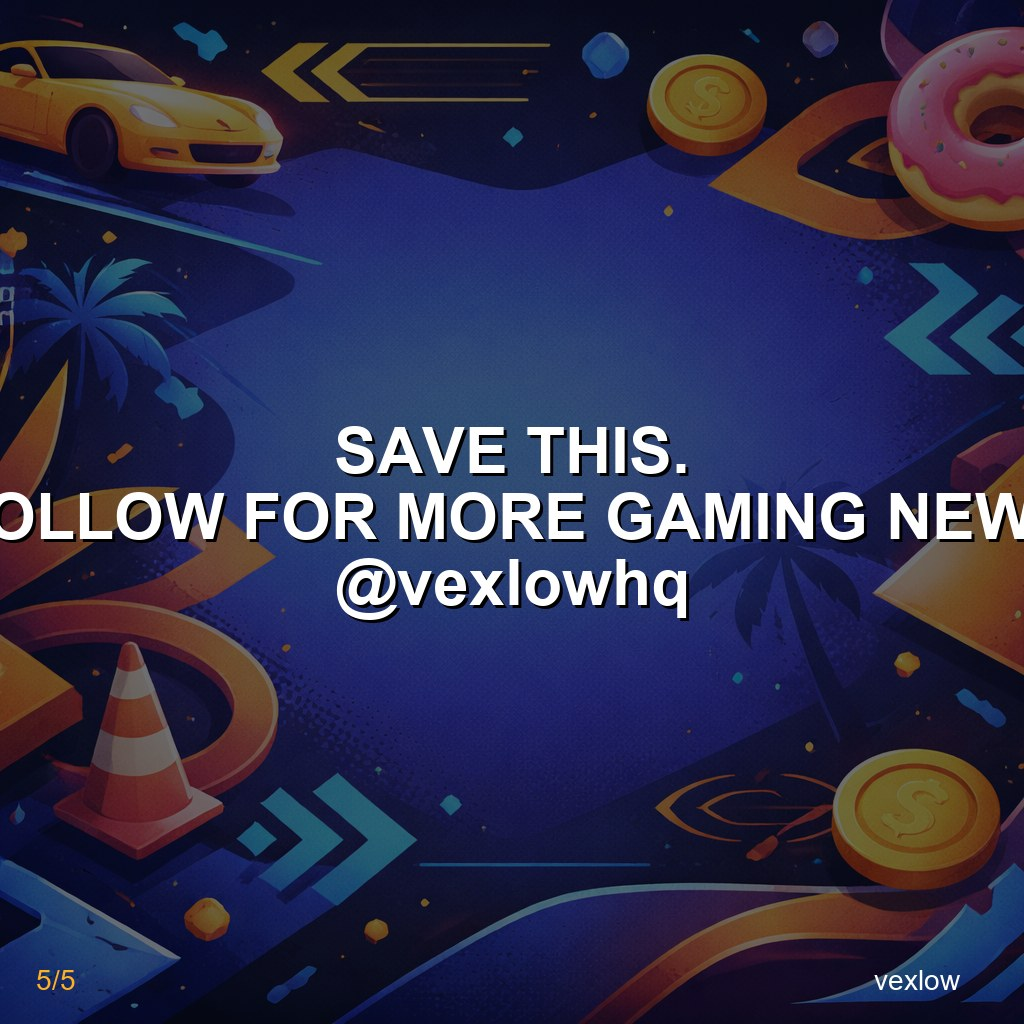
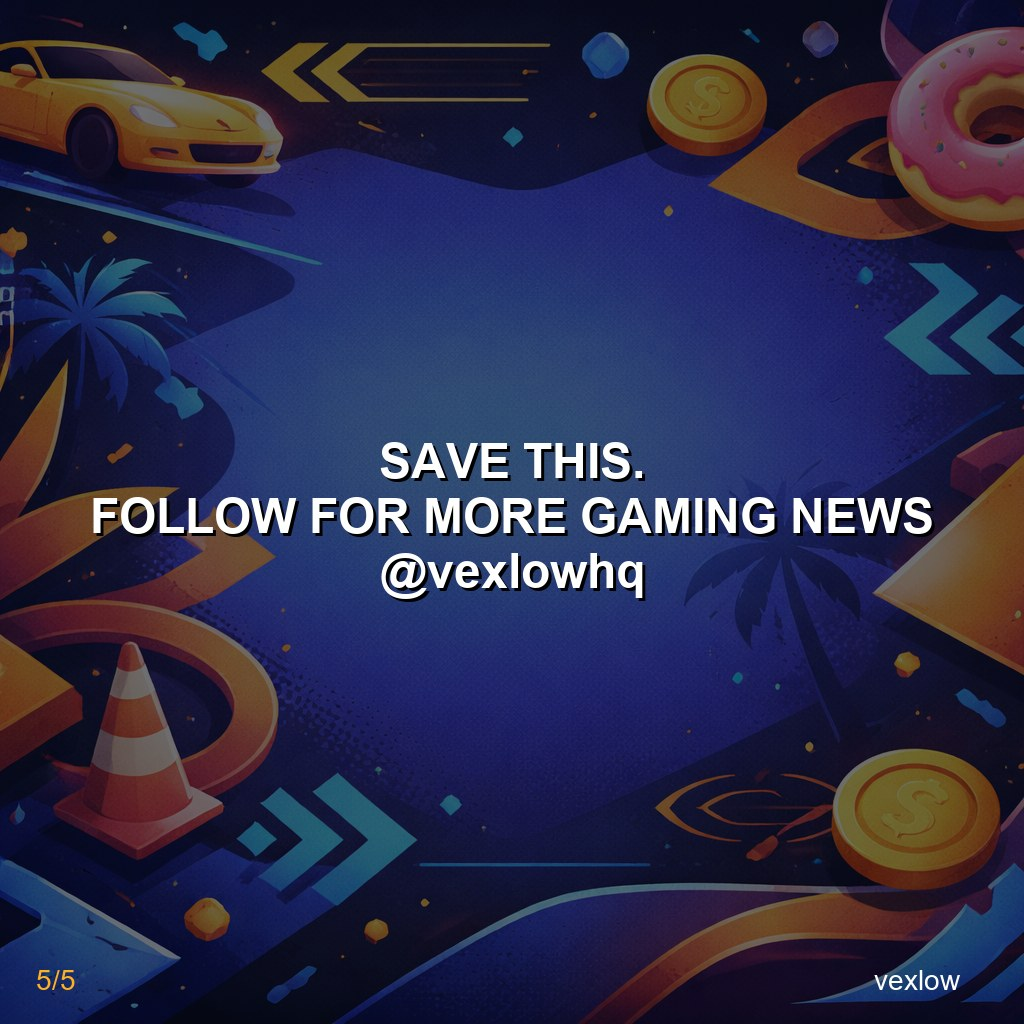
Fix carousel text overflowing image edges on long lines
The overlay script drew every slide's title at a fixed 64px, centering
each line by (canvas_width - line_width) / 2 with no check that the
line actually fit -- a line wider than the canvas centered around a
negative x and got sliced off both edges (confirmed on the live Day 1
and Day 3 posts already published to Instagram: "BECAME AN INSTANT
CULT CLASSIC" and "BREAKING THE XBOX EXCLUSIVE" both cut off).

Now each slide picks the largest font size (64px down to a 30px floor,
in 2px steps) at which every one of its lines fits within a fixed
margin, instead of a single canvas-wide size. Verified against the
real overlay script (not a rewritten copy) by feeding it the two
known-broken lines plus a short control line, then regenerated the
Day 1 and Day 3 slide files on disk with their already-generated
backgrounds (no new image-gen API calls needed).

Note: the live Instagram posts for Day 1 and Day 3 were already
published before this fix and still show the cut-off text -- fixing
those requires deleting and reposting from Instagram directly, this
change only prevents it going forward.

Changed region(s): [[0.0, 0.4062, 1.0, 0.625]]

diff --git a/admin/carousel-gen.js b/admin/carousel-gen.js
@@ -81,8 +81,32 @@ var OVERLAY_SCRIPT = [
   '                pass',
   '    return ImageFont.load_default()',
   '',
-  'title_font = load_font(64)',
   'label_font = load_small_font(28)',
+  '',
+  'MAX_FONT_SIZE = 64',
+  'MIN_FONT_SIZE = 30',
+  'MARGIN = 80',
+  'max_line_w = size[0] - 2 * MARGIN',
+  '',
+  'font_cache = {}',
+  'def font_for(sz):',
+  '    if sz not in font_cache:',
+  '        font_cache[sz] = load_font(sz)',
+  '    return font_cache[sz]',
+  '',
+  '# Encuentra el tamaño de fuente mas grande (entre MIN y MAX) con el',
+  '# que TODAS las lineas de esta diapositiva entran dentro del ancho',
+  '# util del canvas -- evita que una linea larga se corte contra los',
+  '# bordes de la imagen (bug real: antes el tamano era fijo en 64px y',
+  '# nunca se achicaba, asi que lineas largas quedaban centradas',
+  '# alrededor de un ancho mayor al canvas y se salian por los dos lados).',
+  'def fit_font_size(draw, lines):',
+  '    for sz in range(MAX_FONT_SIZE, MIN_FONT_SIZE - 1, -2):',
+  '        f = font_for(sz)',
+  '        widths = [draw.textbbox((0, 0), line, font=f)[2] for line in lines]',
+  '        if max(widths) <= max_line_w:',
+  '            return sz',
+  '    return MIN_FONT_SIZE',
   '',
   'for i, slide in enumerate(params["slides"]):',
   '    img = bg.copy()',
@@ -91,14 +115,11 @@ var OVERLAY_SCRIPT = [
   '    draw = ImageDraw.Draw(img)',
   '',
   '    lines = slide["text"].split("\\n")',
+  '    title_font = font_for(fit_font_size(draw, lines))',
   '    line_heights = []',
-  '    max_w = 0',
   '    for line in lines:',
   '        bbox = draw.textbbox((0, 0), line, font=title_font)',
-  '        w = bbox[2] - bbox[0]',
-  '        h = bbox[3] - bbox[1]',
-  '        line_heights.append(h)',
-  '        max_w = max(max_w, w)',
+  '        line_heights.append(bbox[3] - bbox[1])',
   '',
   '    line_gap = 18',
   '    total_h = sum(line_heights) + line_gap * (len(lines) - 1)',
